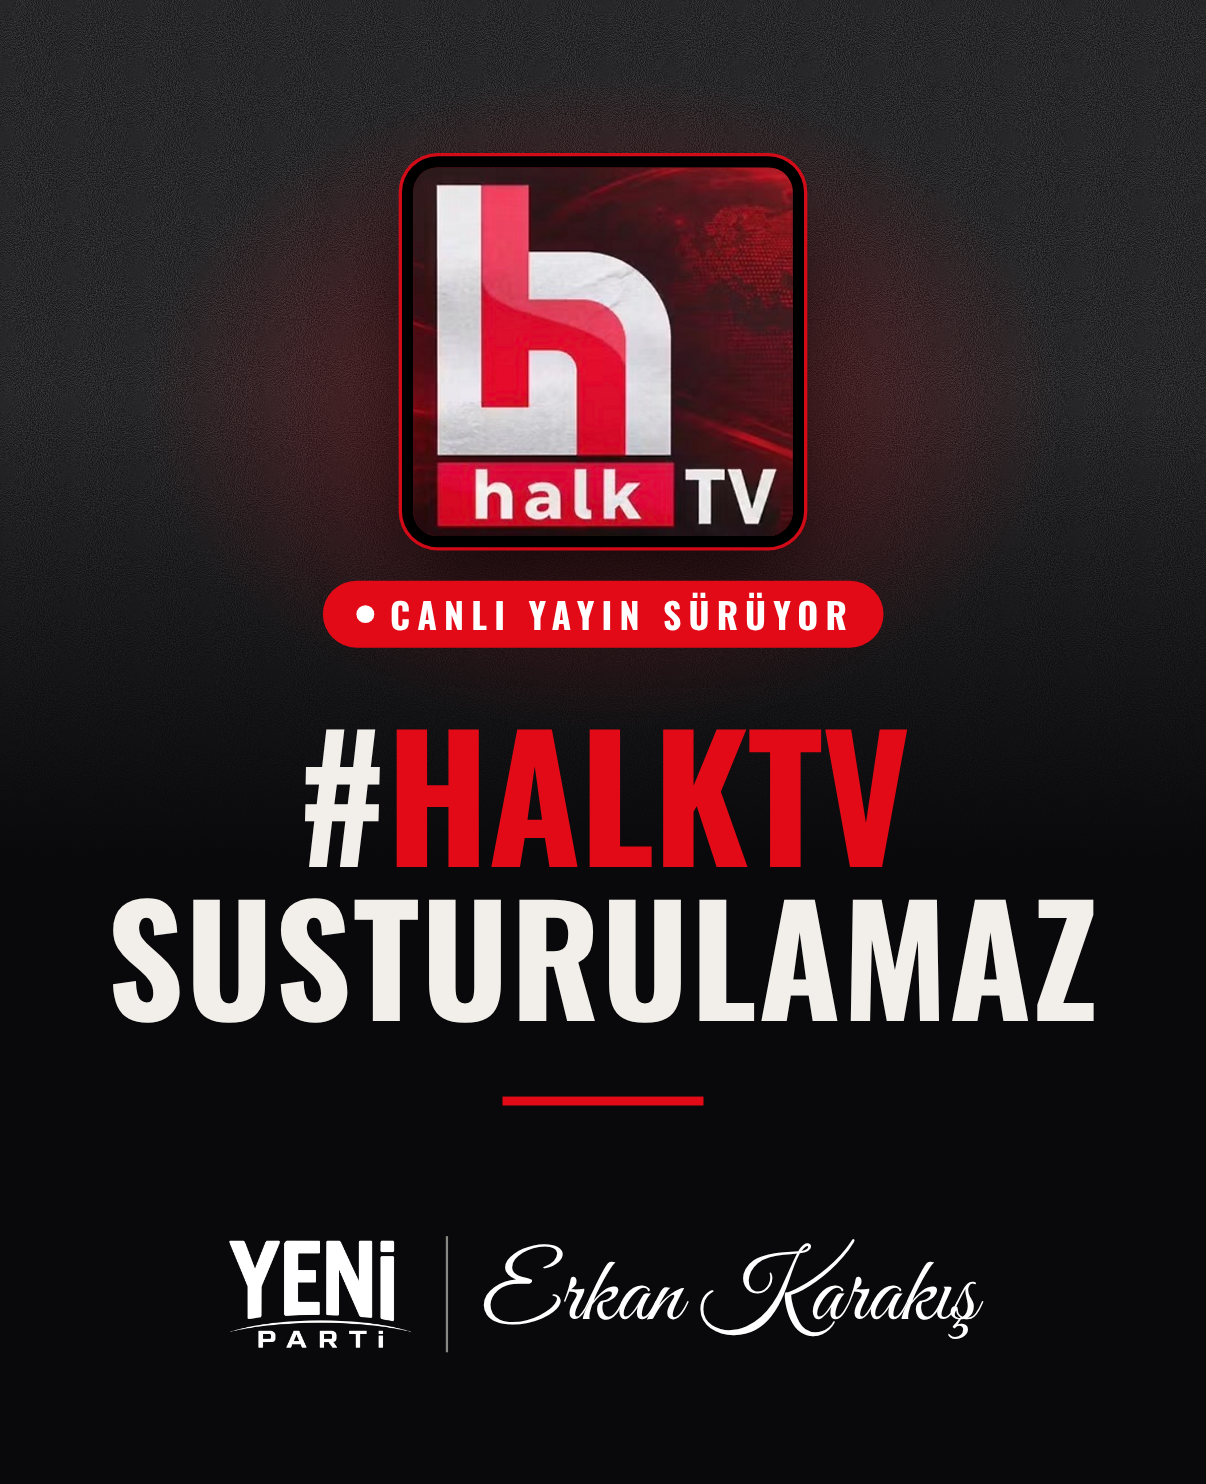
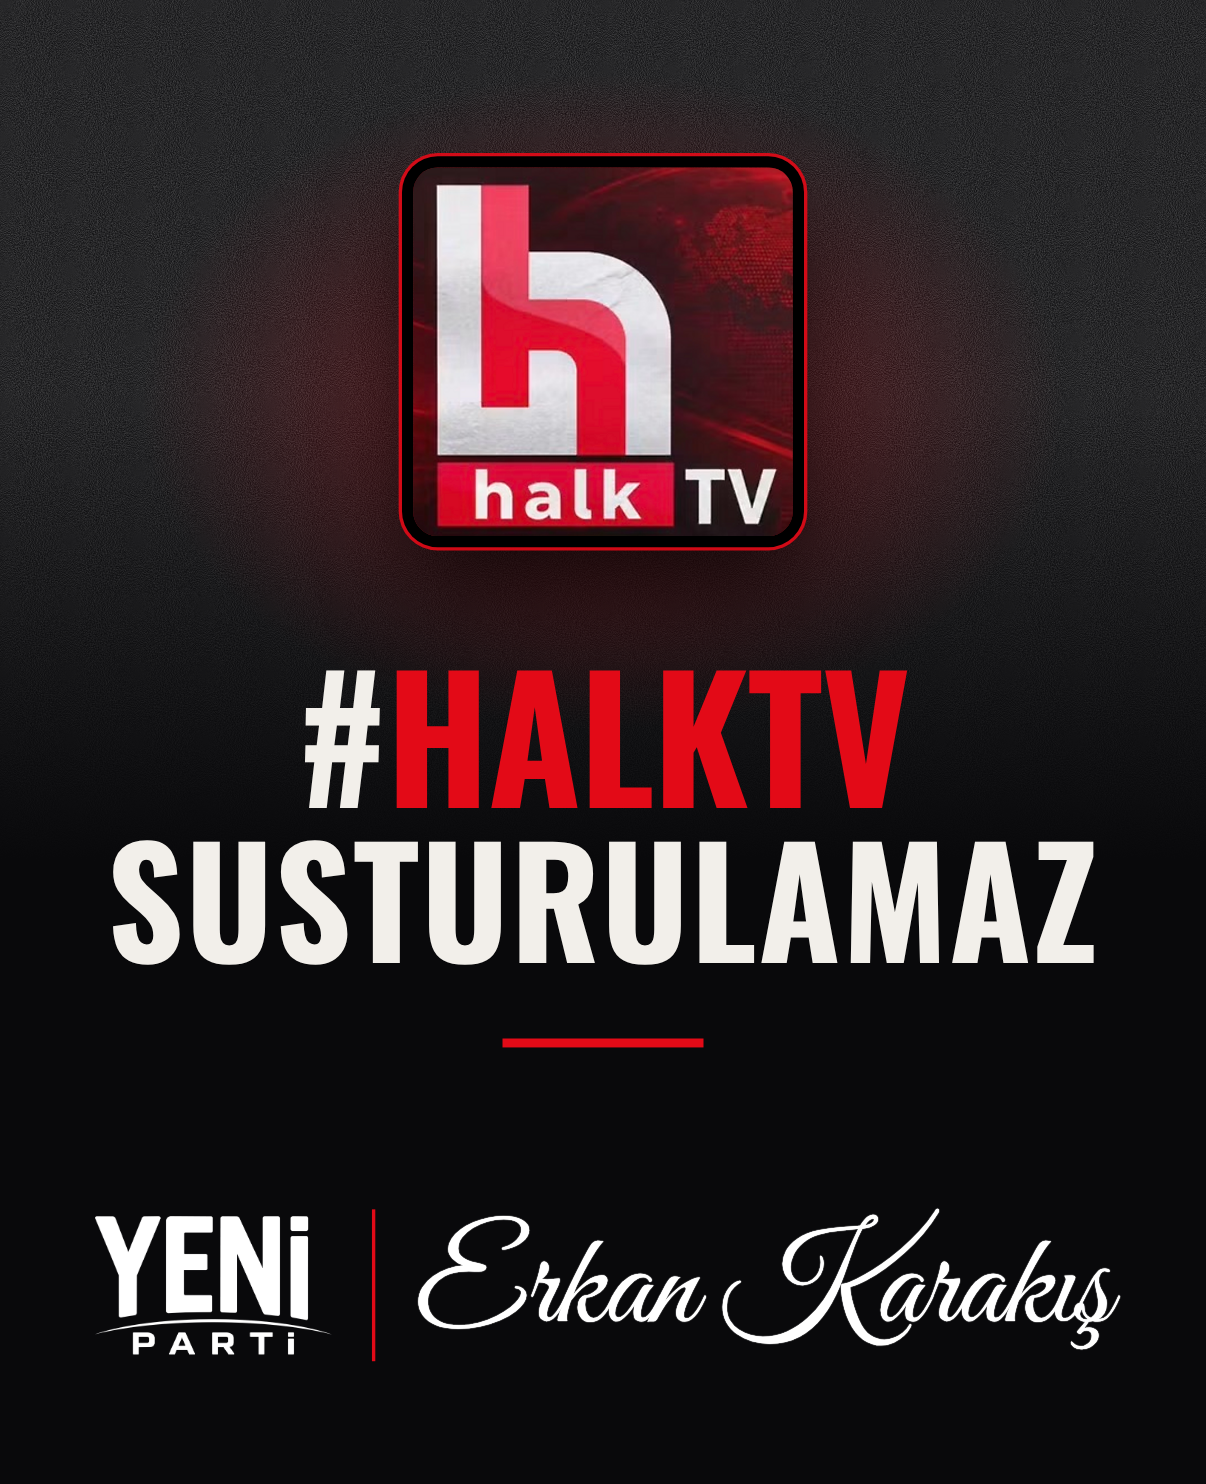
Erkan Karakış HalkTV postu: canlı yayın rozeti kaldırıldı, imza büyütüldü
Claude-Session: https://claude.ai/code/session_01SatttGbgBLoCnk9KGLypWv

Changed region(s): [[0.092, 0.372, 0.9204, 0.7439], [0.0614, 0.8059, 0.9204, 0.9299]]

diff --git a/tasarim/erkan-karakis/halktv-erkan.html b/tasarim/erkan-karakis/halktv-erkan.html
@@ -14,26 +14,22 @@ body{position:relative;background:var(--gece);color:var(--krem)}
 .cerceve{position:absolute;left:50%;top:150px;width:340px;height:330px;transform:translateX(-50%);
   border-radius:22px;overflow:hidden;box-shadow:0 0 0 10px #000,0 0 0 13px rgba(227,10,23,.9),0 40px 80px rgba(0,0,0,.7)}
 .cerceve img{width:100%;height:100%;display:block}
-.canli{position:absolute;left:50%;top:520px;transform:translateX(-50%);display:flex;align-items:center;gap:14px;
-  background:var(--kirmizi);color:#fff;font:32px/1 Afis;letter-spacing:.2em;padding:14px 26px 14px 30px;border-radius:40px;white-space:nowrap}
-.canli i{width:16px;height:16px;border-radius:50%;background:#fff}
-.baslik{position:absolute;left:0;right:0;top:632px;text-align:center}
+.baslik{position:absolute;left:0;right:0;top:580px;text-align:center}
 .b1{font:152px/1 Afis;letter-spacing:-.01em}
 .b1 em{font-style:normal;color:var(--kirmizi)}
 .b2{font:134px/1.04 Afis;letter-spacing:.01em}
-.cizgi{position:absolute;left:50%;top:982px;width:180px;height:8px;margin-left:-90px;background:var(--kirmizi)}
+.cizgi{position:absolute;left:50%;top:930px;width:180px;height:8px;margin-left:-90px;background:var(--kirmizi)}
 
 /* imza bloğu */
-.imza{position:absolute;left:50%;bottom:118px;transform:translateX(-50%);display:flex;align-items:center;gap:30px}
-.imza img{height:96px;display:block}
-.imza .ayrac{width:2px;height:104px;background:rgba(242,239,234,.55)}
-.imza .ad{font:84px/1 Imza;color:#fff;white-space:nowrap;transform:translateY(4px)}
+.imza{position:absolute;left:50%;bottom:110px;transform:translateX(-50%);display:flex;align-items:center;gap:36px}
+.imza img{height:124px;display:block}
+.imza .ayrac{width:3px;height:136px;background:var(--kirmizi)}
+.imza .ad{font:118px/1 Imza;color:#fff;white-space:nowrap;transform:translateY(6px);text-shadow:0 0 1px #fff,0 0 1px #fff}
 </style>
 <body>
 <svg class="parazit" width="1080" height="780"><filter id="n"><feTurbulence type="fractalNoise" baseFrequency="1.1" numOctaves="2" seed="7"/><feColorMatrix type="saturate" values="0"/></filter><rect width="1080" height="780" filter="url(#n)"/></svg>
 <div class="isik"></div>
 <div class="cerceve"><img src="../halktv-susturulamaz/halktv-kare.png"></div>
-<div class="canli"><i></i>CANLI YAYIN SÜRÜYOR</div>
 <div class="baslik">
   <div class="b1">#<em>HALKTV</em></div>
   <div class="b2">SUSTURULAMAZ</div>

diff --git a/tasarim/erkan-karakis/imza.html b/tasarim/erkan-karakis/imza.html
@@ -1,7 +1,7 @@
 <!doctype html><meta charset="utf-8"><style>
 @font-face{font-family:Imza;src:url(../fontlar-gecici/GreatVibes.ttf)}
 html,body{margin:0;background:transparent}
-.imza{display:inline-flex;align-items:center;gap:30px;padding:20px}
-.imza img{height:96px}.ayrac{width:2px;height:104px;background:rgba(255,255,255,.55)}
-.ad{font:84px/1 Imza;color:#fff;white-space:nowrap;transform:translateY(4px)}
+.imza{display:inline-flex;align-items:center;gap:36px;padding:20px}
+.imza img{height:124px}.ayrac{width:3px;height:136px;background:#E30A17}
+.ad{font:118px/1 Imza;color:#fff;white-space:nowrap;transform:translateY(6px);text-shadow:0 0 1px #fff,0 0 1px #fff}
 </style><div class="imza"><img src="yeni-parti-beyaz.png"><span class="ayrac"></span><span class="ad">Erkan Karakış</span></div>
